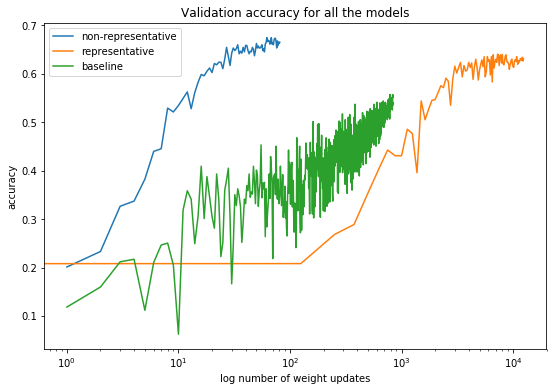
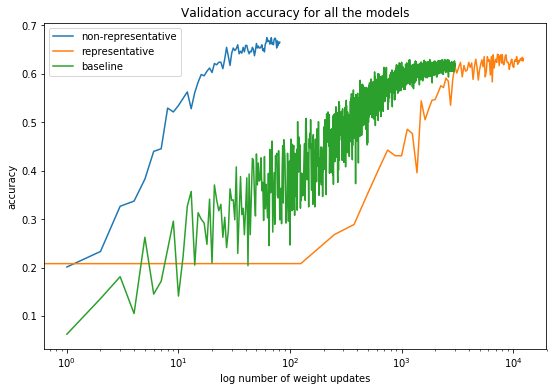
updates

Changed region(s): [[0.1223, 0.1535, 0.8255, 0.8593]]

diff --git a/_posts/2019-07-17-Federated-Farming-Model.md b/_posts/2019-07-17-Federated-Farming-Model.md
@@ -164,17 +164,25 @@ def average_weights(weights, n_examples):
 ```
 ## Results [WIP]
 
-Models are compared based on the number of weight updates needed for the model to reach a certain level of performance. For the standard model each mini-batch leads to an update while for the federated learning models the global model is updated after each communication round. For the randomly sampled shards it takes only 27 rounds to reach the highest accuracy attained by the baseline model of 64.06 % which takes more than 7000 minibatch updates. The model trained on non-representative shard clients did not manage to reach the baseline performance for the number of rounds it was trained. However at lower scores it matches the performance of the baseline after fewer rounds. The baseline reaches above 50% accuracy after more than 1500 updates whereas this model takes a little over 150 rounds. I stopped training as it looked like it was overfitting.
+Models are compared based on the number of weight updates needed for the model to reach a certain level of performance. For the standard model each mini-batch leads to an update while for the federated learning models the global model is updated after each communication round. For the randomly sampled shards it takes only 27 rounds to reach the highest accuracy attained by the baseline model of 64.06 % which takes more than 7000 minibatch updates.
+
+With the non-representative shards I first stopped the training after about 175 rounds as it did not seem to be improving.
+
+![png]({{ site.baseurl }}/assets/Federated_Farming-Model/acc1.png)
+
+![png]({{ site.baseurl }}/assets/Federated_Farming-Model/loss1.png)
+
+But then I realised I didn't take into account that the curve would be a lot noiser between rounds. Since typically you plot validation metrics after each epoch rather each mini-batch update I was expecting a smoother curve and misinterpreted the lack of change for several rounds as convergence. 
 
 ![png]({{ site.baseurl }}/assets/Federated_Farming-Model/acc_plots.png)
 
-Possible overfitting of non-representative shard model.
+I tried another model where I decayed the learning rate so that after $n$ rounds it was $\alpha_0 \times 0.999^n$. The accuracy improves for a lot longer, starting to converge as the loss curve shows signs of overfitting.
 
-![png]({{ site.baseurl }}/assets/Federated_Farming-Model/loss_non_iid.png)
+![png]({{ site.baseurl }}/assets/Federated_Farming-Model/acc2.png)
 
-![png]({{ site.baseurl }}/assets/Federated_Farming-Model/acc_non_iid.png)
+![png]({{ site.baseurl }}/assets/Federated_Farming-Model/loss2.png)
 
-
-But I realised I didn't take into account the non-representative shards, the curve is going to be a lot noiser between rounds. Since typically you plot validation metrics after each epoch rather each mini-batch update I was expecting a smoother curve and misinterpreted the lack of change for several rounds as convergence. I tried another model where I decayed the learning rate so that after $n$ rounds it was $\alpha_0 \times 0.994^n$. This is still training but as can be seen it is continuing to improve.
+Like the CIFAR10 model in the paper this model did not manage to reach the baseline accuracy but reached almost 63% accuracy after 1183 updates whereas it took the baseline model almost 3 times as many updates to get beyond 62% and about 4 times as many updates to cross 63%. One caveat in these comparisons is that for the baseline metrics were only measured at the end of each epoch rather than each update as for the federated learning setup. However since the epoch accuracy improved very slowly, these are still likely to be in the right range of values. 
 
 ![png]({{ site.baseurl }}/assets/Federated_Farming-Model/acc_plots2.png)
+
